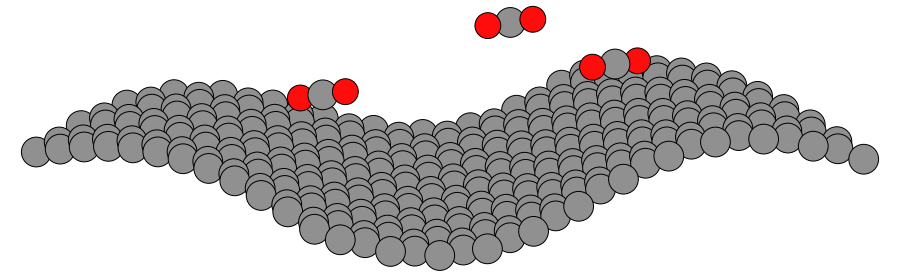
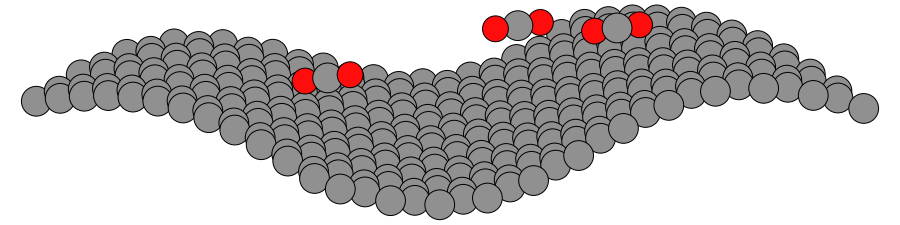
Fixed issue with CO2 positioning.

diff --git a/docs/assets/gallery/curved.py b/docs/assets/gallery/curved.py
@@ -45,18 +45,27 @@ pos[:, 2] += 2.0 * np.sin(2 * np.pi * 1.5 * (x - x.min()) / x_span)
 graphene.set_positions(pos)
 
 # Adsorb a few CO2 molecules above the curved sheet. CO2 is linear (O=C=O) with
-# a ~1.16 A C-O bond, physisorbed flat ~3.2 A above the graphene.
-def co2(x, y, z):
-    c = np.array([x, y, z])
+# a ~1.16 A C-O bond, physisorbed flat ~3.2 A above the *local* sheet height
+# (measured under each molecule, so they track the ripple instead of floating).
+gpos = graphene.get_positions()
+
+
+def local_top(x, y, radius=2.0):
+    d = np.linalg.norm(gpos[:, :2] - [x, y], axis=1)
+    near = gpos[d < radius] if (d < radius).any() else gpos[np.argsort(d)[:3]]
+    return near[:, 2].max()
+
+
+def co2(x, y):
+    c = np.array([x, y, local_top(x, y) + 3.2])
     return Atoms("CO2", positions=[c, c + [1.16, 0, 0], c - [1.16, 0, 0]])
 
 
-z_top = graphene.get_positions()[:, 2].max()
 com = graphene.get_center_of_mass()
 adsorbates = (
-    co2(com[0] - 6, com[1] - 4, z_top + 3.2)
-    + co2(com[0] + 4, com[1] + 5, z_top + 3.2)
-    + co2(com[0] + 9, com[1] - 6, z_top + 3.2)
+    co2(com[0] - 6, com[1] - 4)
+    + co2(com[0] + 4, com[1] + 5)
+    + co2(com[0] + 9, com[1] - 6)
 )
 system = graphene + adsorbates
 adsorbate_indices = set(range(len(graphene), len(system)))
